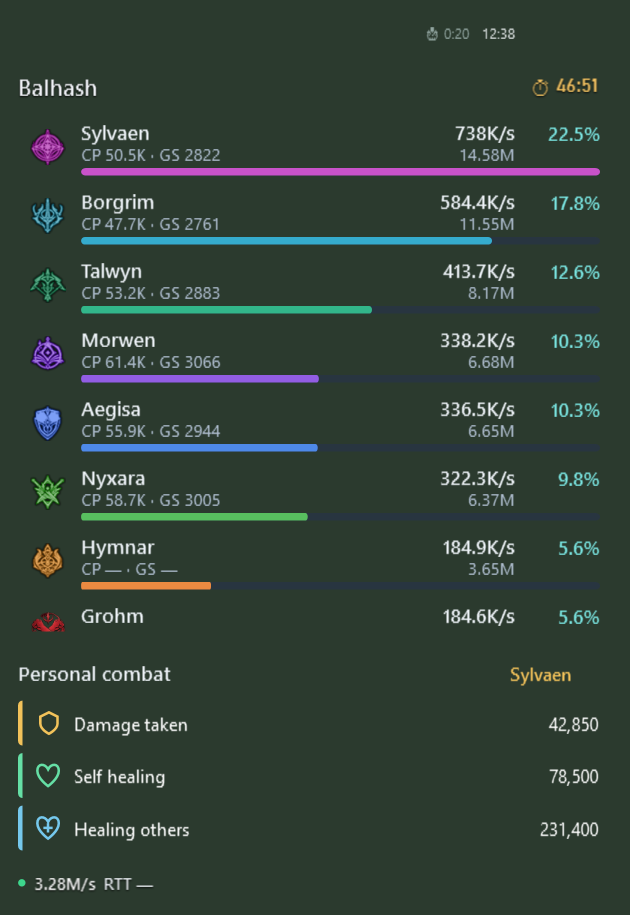
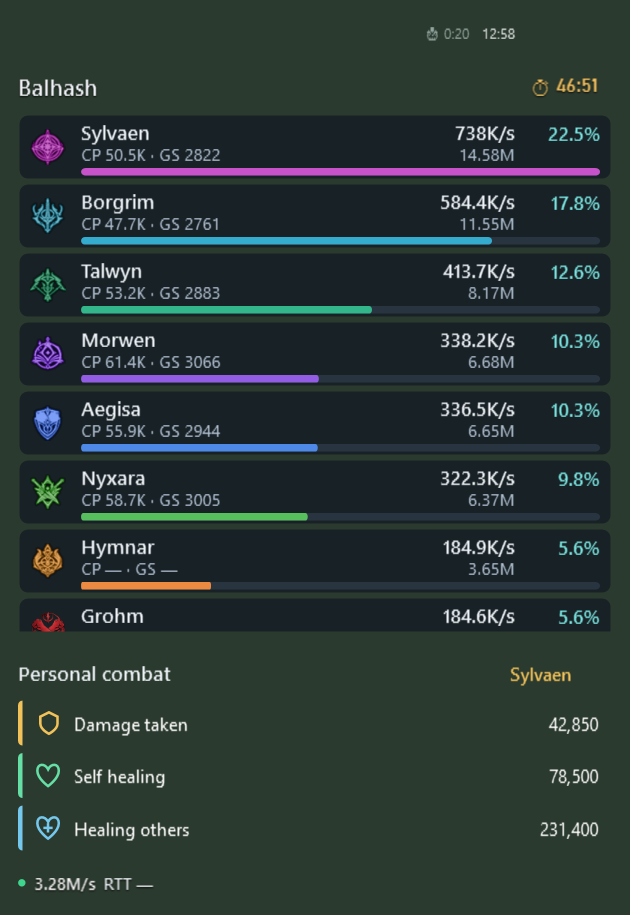
Improve locked readability, narrow layout and inline patchnote previews

diff --git a/src/AionMeter.App/Windows/OverlayWindow.xaml b/src/AionMeter.App/Windows/OverlayWindow.xaml
@@ -5,13 +5,14 @@
         xmlns:vm="clr-namespace:AionMeter.App.ViewModels"
         xmlns:sys="clr-namespace:System;assembly=mscorlib"
         x:Name="Root"
-        Title="CatScratch" Width="420" Height="540" MinWidth="320" MinHeight="320"
+        Title="CatScratch" Width="420" Height="540" MinWidth="260" MinHeight="320"
         WindowStyle="None" AllowsTransparency="False" Background="#101420"
         Topmost="True" ShowInTaskbar="True" ShowActivated="True" ResizeMode="CanResize"
         UseLayoutRounding="True" TextOptions.TextFormattingMode="Display"
         FontFamily="{StaticResource UiFont}">
     <Window.Resources>
         <c:VisibleIf x:Key="VisibleIf" />
+        <GridLength x:Key="DpsColumnWidth">76</GridLength><GridLength x:Key="ShareColumnWidth">57</GridLength>
 
         <Storyboard x:Key="Pulse" RepeatBehavior="Forever" AutoReverse="True">
             <DoubleAnimation Storyboard.TargetProperty="Opacity" From="1" To="0.25" Duration="0:0:0.8" />
@@ -170,12 +171,12 @@
             <Grid x:Name="ModernRow" Height="{DynamicResource CompactRowHeight}" Margin="0,0,0,2" Cursor="Hand" Background="Transparent" ToolTip="{Binding Tooltip}" MouseLeftButtonUp="Row_Click" MouseRightButtonUp="Row_RightClick">
                 <Border x:Name="RowSurface" Background="#D0171E27" BorderBrush="#302E4252" BorderThickness="1" CornerRadius="6" />
                 <Grid Margin="8,3,8,3">
-                    <Grid.ColumnDefinitions><ColumnDefinition Width="{DynamicResource ColGlyphWidth}"/><ColumnDefinition Width="*"/><ColumnDefinition Width="76"/><ColumnDefinition Width="57"/></Grid.ColumnDefinitions>
+                    <Grid.ColumnDefinitions><ColumnDefinition Width="{DynamicResource ColGlyphWidth}"/><ColumnDefinition Width="*"/><ColumnDefinition Width="{DynamicResource DpsColumnWidth}"/><ColumnDefinition Width="{DynamicResource ShareColumnWidth}"/></Grid.ColumnDefinitions>
                     <c:ClassGlyph Class="{Binding Class}" Width="{DynamicResource RowGlyphSize}" Height="{DynamicResource RowGlyphSize}" VerticalAlignment="Center" HorizontalAlignment="Left"/>
                     <Grid Grid.Column="1" Grid.ColumnSpan="3" Margin="4,0,0,0">
                         <Grid.RowDefinitions><RowDefinition Height="*"/><RowDefinition Height="5"/></Grid.RowDefinitions>
                         <Grid Margin="0,0,0,2">
-                            <Grid.ColumnDefinitions><ColumnDefinition Width="*"/><ColumnDefinition Width="76"/><ColumnDefinition Width="57"/></Grid.ColumnDefinitions>
+                            <Grid.ColumnDefinitions><ColumnDefinition Width="*"/><ColumnDefinition Width="{DynamicResource DpsColumnWidth}"/><ColumnDefinition Width="{DynamicResource ShareColumnWidth}"/></Grid.ColumnDefinitions>
                             <StackPanel VerticalAlignment="Center" Margin="0,0,6,0">
                                 <TextBlock Text="{Binding Name}" FontSize="{DynamicResource CompactNameFont}" FontWeight="SemiBold" Foreground="#EDF2F7" TextTrimming="CharacterEllipsis"/>
                                 <TextBlock Text="{Binding CompactGear}" FontSize="{DynamicResource CompactSubFont}" Foreground="#ADBCCD" TextTrimming="CharacterEllipsis"/>
@@ -196,7 +197,7 @@
             <DataTemplate.Triggers>
                 <Trigger Property="IsMouseOver" Value="True"><Setter TargetName="RowSurface" Property="BorderBrush" Value="#6079E3CF"/></Trigger>
                 <DataTrigger Binding="{Binding DataContext.IsDisplayOnly, RelativeSource={RelativeSource AncestorType=Window}}" Value="True">
-                    <Setter TargetName="RowSurface" Property="Background" Value="Transparent"/>
+                    <Setter TargetName="RowSurface" Property="Background" Value="#B8101822"/>
                     <Setter TargetName="RowSurface" Property="BorderBrush" Value="Transparent"/>
                 </DataTrigger>
             </DataTemplate.Triggers>
@@ -208,8 +209,8 @@
         <Grid DockPanel.Dock="Top" Height="38" Margin="8,2,6,0">
             <Grid.ColumnDefinitions><ColumnDefinition Width="*"/><ColumnDefinition Width="Auto"/><ColumnDefinition Width="Auto"/><ColumnDefinition Width="Auto"/><ColumnDefinition Width="Auto"/></Grid.ColumnDefinitions>
             <StackPanel x:Name="ShellCaption" Orientation="Horizontal" VerticalAlignment="Center">
-                <Image Source="/Assets/app.ico" Width="22" Height="22" Margin="0,0,7,0"/>
-                <TextBlock Text="CatScratch" Foreground="#79E3CF" FontSize="16" FontWeight="Bold" VerticalAlignment="Center"/>
+                <Image x:Name="ShellPaw" Source="/Assets/app.ico" Width="22" Height="22" Margin="0,0,7,0"/>
+                <TextBlock x:Name="ShellTitle" Text="CatScratch" Foreground="#79E3CF" FontSize="16" FontWeight="Bold" VerticalAlignment="Center"/>
                             <Button x:Name="PersonalCombatButton" Style="{StaticResource ToolIcon}" Content="&#xE95E;" Click="PersonalCombat_Click" ToolTip="Show / hide personal combat" AutomationProperties.Name="Toggle personal combat module" Margin="4,0,0,0" />
 </StackPanel>
             <StackPanel Grid.Column="1" Orientation="Horizontal" VerticalAlignment="Center">
@@ -394,7 +395,8 @@
                     <Button Grid.Column="1" Style="{StaticResource IconButton}" Content="&#xE711;" Click="UpdateBannerClose_Click" Margin="4,0,8,0"
                             VerticalAlignment="Center" ToolTip="{Binding T.UpdateLater}" />
                 </Grid>
-                <Grid>
+                <Grid x:Name="FooterLayout">
+                    <Grid.RowDefinitions><RowDefinition Height="Auto"/><RowDefinition Height="Auto"/></Grid.RowDefinitions>
                     <Grid.ColumnDefinitions>
                         <ColumnDefinition Width="*" />
                         <ColumnDefinition Width="Auto" />

diff --git a/src/AionMeter.App/Windows/PatchNotesWindow.cs b/src/AionMeter.App/Windows/PatchNotesWindow.cs
@@ -3,6 +3,9 @@ using System.Windows;
 using System.Windows.Controls;
 using System.Windows.Documents;
 using System.Windows.Media;
+using System.Windows.Media.Imaging;
+using System.Net.Http;
+using System.Text.RegularExpressions;
 using AionMeter.App.Services;
 using AionMeter.Core.Updates;
 
@@ -10,7 +13,9 @@ namespace AionMeter.App.Windows;
 
 public sealed class PatchNotesWindow : Window
 {
-    private readonly TextBlock _notes = new() { TextWrapping = TextWrapping.Wrap, FontSize = 13, LineHeight = 21 };
+    private readonly StackPanel _notes = new();
+    private readonly HttpClient _images = new() { Timeout = TimeSpan.FromSeconds(15) };
+    private int _notesRevision;
     private readonly TextBlock _state = new() { Margin = new Thickness(0,8,0,12), Foreground = Brushes.LightGray };
     private readonly CancellationTokenSource _lifetime = new();
     public PatchNotesWindow(Updater updater)
@@ -48,17 +53,64 @@ public sealed class PatchNotesWindow : Window
             { if (!_lifetime.IsCancellationRequested) _state.Text = "GitHub unavailable. Displaying the saved notes."; }
             finally { if (!_lifetime.IsCancellationRequested) refresh.IsEnabled = true; }
         };
-        Closed += (_, _) => _lifetime.Cancel();
+        Closed += (_, _) => { _lifetime.Cancel(); _images.Dispose(); };
     }
-    private void ShowNotes(string markdown, string caption)
+    private async void ShowNotes(string markdown, string caption)
     {
+        var revision = ++_notesRevision;
         _state.Text = caption;
-        _notes.Inlines.Clear();
-        foreach (var (text, heading) in ReleaseNotes.Lines(markdown, "en"))
+        _notes.Children.Clear();
+        var pending = new List<(Image Image, TextBlock Status, Uri Uri)>();
+        foreach (var line in markdown.Split('\n'))
         {
-            if (_notes.Inlines.Count > 0) _notes.Inlines.Add(new LineBreak());
-            _notes.Inlines.Add(new Run(text) { FontWeight = heading ? FontWeights.SemiBold : FontWeights.Normal,
-                Foreground = heading ? Brushes.PaleGoldenrod : Brushes.White });
+            var match = Regex.Match(line, "<img\\b[^>]*\\bsrc=[\"'](?<url>[^\"']+)[\"']|!\\[[^\\]]*\\]\\((?<url>[^\\s)]+)\\)", RegexOptions.IgnoreCase);
+            if (match.Success && Uri.TryCreate(match.Groups["url"].Value, UriKind.Absolute, out var uri) &&
+                uri.Scheme == "https" && uri.Host == "raw.githubusercontent.com" &&
+                uri.AbsolutePath.StartsWith("/Zerafithekitten/CatScratch/", StringComparison.OrdinalIgnoreCase) && pending.Count < 4)
+            {
+                var image = new Image { Stretch = Stretch.Uniform, MaxWidth = 560, HorizontalAlignment = HorizontalAlignment.Left, Margin = new(0,8,0,12) };
+                var status = new TextBlock { Text = "Loading preview…", Foreground = Brushes.LightGray, Margin = new(0,4,0,8) };
+                _notes.Children.Add(status); _notes.Children.Add(image);
+                pending.Add((image,status,uri));
+                continue;
+            }
+            foreach (var (text, heading) in ReleaseNotes.Lines(line, "en"))
+                _notes.Children.Add(new TextBlock { Text = text, TextWrapping = TextWrapping.Wrap, FontSize = 13, LineHeight = 21,
+                    Margin = new(0,0,0,4), FontWeight = heading ? FontWeights.SemiBold : FontWeights.Normal,
+                    Foreground = heading ? Brushes.PaleGoldenrod : Brushes.White });
+        }
+        foreach (var preview in pending)
+        {
+            if (_lifetime.IsCancellationRequested || revision != _notesRevision) return;
+            try
+            {
+                using var timeout = CancellationTokenSource.CreateLinkedTokenSource(_lifetime.Token);
+                timeout.CancelAfter(TimeSpan.FromSeconds(15));
+                using var response = await _images.GetAsync(preview.Uri, HttpCompletionOption.ResponseHeadersRead, timeout.Token);
+                response.EnsureSuccessStatusCode();
+                const int limit = 4 * 1024 * 1024;
+                if (response.Content.Headers.ContentLength is > limit) throw new InvalidDataException("Preview too large");
+                await using var stream = await response.Content.ReadAsStreamAsync(timeout.Token);
+                using var bytes = new MemoryStream();
+                var buffer = new byte[8192];
+                int read;
+                while ((read = await stream.ReadAsync(buffer, timeout.Token)) > 0)
+                {
+                    if (bytes.Length + read > limit) throw new InvalidDataException("Preview too large");
+                    bytes.Write(buffer,0,read);
+                }
+                if (_lifetime.IsCancellationRequested || revision != _notesRevision) return;
+                bytes.Position = 0;
+                var bitmap = new BitmapImage();
+                bitmap.BeginInit(); bitmap.CacheOption = BitmapCacheOption.OnLoad;
+                bitmap.DecodePixelWidth = 900; bitmap.StreamSource = bytes; bitmap.EndInit(); bitmap.Freeze();
+                preview.Image.Source = bitmap; preview.Status.Visibility = Visibility.Collapsed;
+            }
+            catch (Exception error) when (error is HttpRequestException or OperationCanceledException or IOException or NotSupportedException or InvalidOperationException or FormatException or ArgumentException)
+            {
+                if (_lifetime.IsCancellationRequested || revision != _notesRevision) return;
+                preview.Status.Text = "Preview unavailable. Open the release on GitHub to view screenshots.";
+            }
         }
     }
 }

diff --git a/src/AionMeter.App/Windows/OverlayWindow.xaml.cs b/src/AionMeter.App/Windows/OverlayWindow.xaml.cs
@@ -50,7 +50,7 @@ public partial class OverlayWindow : Window, IDisplayAppearance
         DataContext = _vm;
         CreatePersonalRows();
         WindowClickThrough.Attach(this, () => _settings.ClickThrough, () => _settings.WindowOpacity);
-        MinWidth = _settings.CompactMode ? 320 : 520;
+        MinWidth = 260;
         Closing += (_, _) => AppHost.Current.ExitProgram();
 
         Left = _settings.OverlayLeft;
@@ -67,7 +67,8 @@ public partial class OverlayWindow : Window, IDisplayAppearance
         UpdateModeLabel();
         ApplyHotkeyTips();
         LayoutUpdated += (_, _) => FitNames();
-        SizeChanged += (_, _) => { if (IsLoaded && WindowState == WindowState.Normal) SavePlacement(); };
+        SizeChanged += (_, _) => { ApplyNarrowLayout(); if (IsLoaded && WindowState == WindowState.Normal) SavePlacement(); };
+        ApplyNarrowLayout();
         _meter.Updates.Changed += ShowUpdateBanner;
         ShowUpdateBanner();
 
@@ -210,6 +211,7 @@ public partial class OverlayWindow : Window, IDisplayAppearance
     private (bool Gs, bool Cp) _partyGearVisibility;
     public void Refresh()
     {
+        ApplyNarrowLayout();
         SaveLastFightButton.IsEnabled = _meter.CanSaveLastFight;
         SetDisplayOnly(_settings.ClickThrough);
         _vm.WallClock = TimerCards.Berlin(DateTimeOffset.UtcNow).ToString("HH:mm", System.Globalization.CultureInfo.InvariantCulture);
@@ -356,7 +358,7 @@ public partial class OverlayWindow : Window, IDisplayAppearance
     {
         var desiredWidth = _settings.OverlayWidth;
         var desiredHeight = _settings.OverlayHeight;
-        MinWidth = _settings.CompactMode ? 320 : 520;
+        MinWidth = 260;
         Width = Math.Max(MinWidth, desiredWidth);
         Height = Math.Max(MinHeight, desiredHeight);
         WindowClickThrough.SetOpacity(_settings.WindowOpacity);
@@ -858,6 +860,42 @@ public partial class OverlayWindow : Window, IDisplayAppearance
         DetailsLink.Visibility = visible;
         HistoryLink.Visibility = visible;
         FooterText.Visibility = visible;
+        _narrowLayoutWidth = double.NaN;
+        ApplyNarrowLayout();
+    }
+
+    private double _narrowLayoutWidth = double.NaN;
+    private void ApplyNarrowLayout()
+    {
+        if (FooterControls is null) return;
+        if (_narrowLayoutWidth == Width) return;
+        _narrowLayoutWidth = Width;
+        var narrow = Width < 360;
+        ShellPaw.Visibility = Width < 300 ? Visibility.Collapsed : Visibility.Visible;
+        ShellTitle.FontSize = Width < 320 ? 12 : 16;
+        Resources["DpsColumnWidth"] = new GridLength(Width < 320 ? 64 : 76);
+        Resources["ShareColumnWidth"] = new GridLength(Width < 320 ? 44 : 57);
+        PersonalName.MaxWidth = Math.Clamp(Width - 220,40,120);
+        Grid.SetRow(FooterControls,narrow ? 1 : 0);
+        Grid.SetColumn(FooterControls,narrow ? 0 : 1);
+        Grid.SetColumnSpan(FooterControls,narrow ? 2 : 1);
+        FooterControls.HorizontalAlignment = HorizontalAlignment.Right;
+        FooterControls.Margin = new Thickness(0,narrow ? 3 : 0,10,0);
+        if (narrow)
+        {
+            BossTimersLink.Visibility = Visibility.Collapsed;
+            DetailsLink.Visibility = Visibility.Collapsed;
+            HistoryLink.Visibility = Visibility.Collapsed;
+            FooterText.Visibility = Visibility.Collapsed;
+            CompactTotal.Visibility = Visibility.Visible;
+            CompactHistory.Visibility = Visibility.Visible;
+        }
+        else
+        {
+            var visibility = _settings.CompactMode ? Visibility.Collapsed : Visibility.Visible;
+            BossTimersLink.Visibility = DetailsLink.Visibility = HistoryLink.Visibility = FooterText.Visibility = visibility;
+            CompactTotal.Visibility = CompactHistory.Visibility = _settings.CompactMode ? Visibility.Visible : Visibility.Collapsed;
+        }
     }
 
     private void Appearance_Click(object sender, RoutedEventArgs e)

diff --git a/src/AionMeter.App/Windows/SettingsWindow.xaml.cs b/src/AionMeter.App/Windows/SettingsWindow.xaml.cs
@@ -146,7 +146,7 @@ public partial class SettingsWindow : Window
     {
         var s = _meter.Settings;
         s.CompactMode = CompactModeCheck.IsChecked == true;
-        if (int.TryParse(WindowWidthText.Text, out var width)) s.OverlayWidth = Math.Clamp(width, s.CompactMode ? 280 : 520, 1600);
+        if (int.TryParse(WindowWidthText.Text, out var width)) s.OverlayWidth = Math.Clamp(width, 260, 1600);
         if (int.TryParse(WindowHeightText.Text, out var height)) s.OverlayHeight = Math.Clamp(height, 180, 1200);
         s.WindowOpacity = WindowOpacityValue.Value;
         var captureChanged = false;

diff --git a/README.md b/README.md
@@ -12,9 +12,15 @@ Actual CatScratch 2.0 UI, rendered with sample data. These images show the app's
 
 ### Click-through mode
 
-Window backgrounds, borders and controls disappear; DPS bars, personal values, clock and ping remain visible. The green backdrop below represents the game behind the transparent window.
+The outer window background, borders and controls disappear; subtle dark player backgrounds keep names and numbers readable. DPS bars, personal values, clock and ping remain visible. The green backdrop below represents the game behind the transparent window.
 
 <img src="docs/screenshots/meter-click-through.png" alt="Transparent click-through DPS meter and personal statistics" width="420" />
+
+### Narrow window
+
+The meter can be resized down to 260 px wide. Long names and CP/GS labels shorten when space is limited; the footer adapts to keep its controls accessible.
+
+<img src="docs/screenshots/meter-narrow.png" alt="CatScratch at its 260 px minimum width" width="260" />
 
 ### Fight details
 

diff --git a/data/patchnotes-en.md b/data/patchnotes-en.md
@@ -1,3 +1,9 @@
+## CatScratch v2.0.3
+
+- Keep a subtle dark background behind each player in click-through mode for better readability; the outer window remains transparent.
+- Allow window widths down to 260 px, including in Settings. Adapt the title bar, value columns and footer at narrow widths.
+- Display embedded GitHub preview images inside Patch notes. Load previews only when viewing notes, in memory, with download limits and an offline fallback.
+
 ## CatScratch v2.0.2
 
 - Make individual player rows noticeably more compact: shorter cards, tighter gaps, smaller class emblems and thinner DPS bars.
